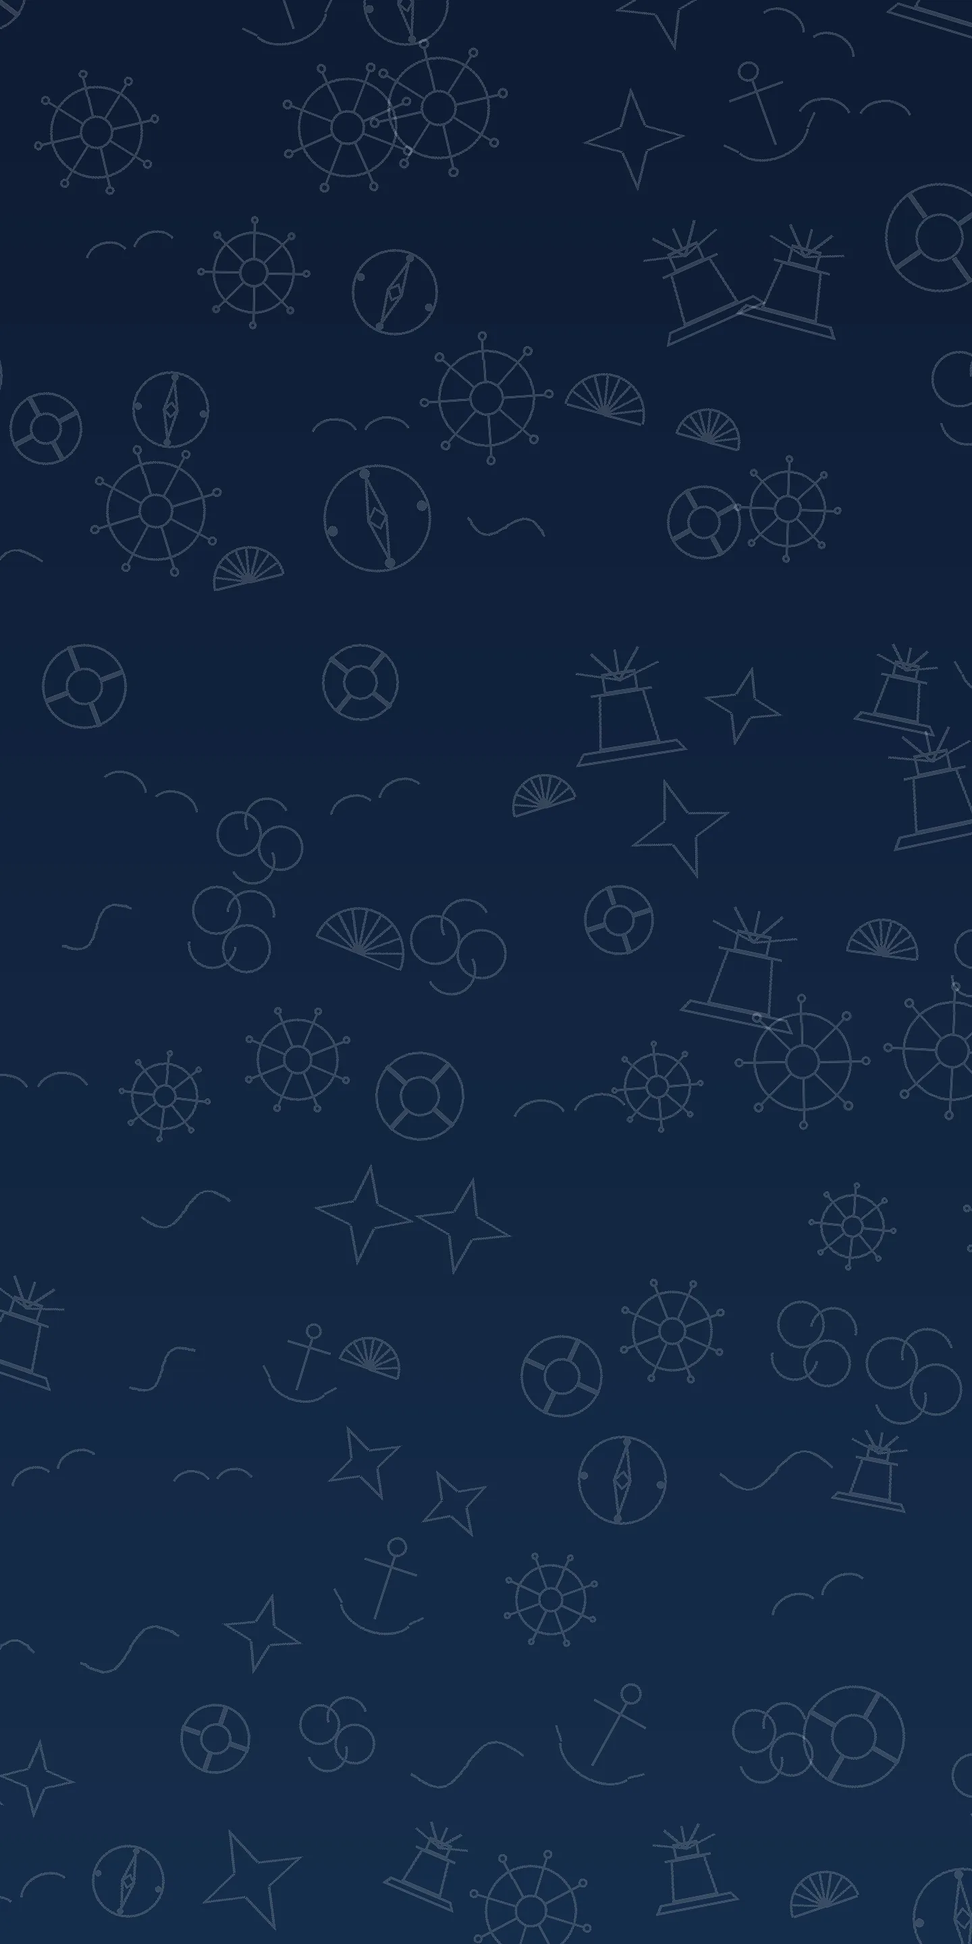
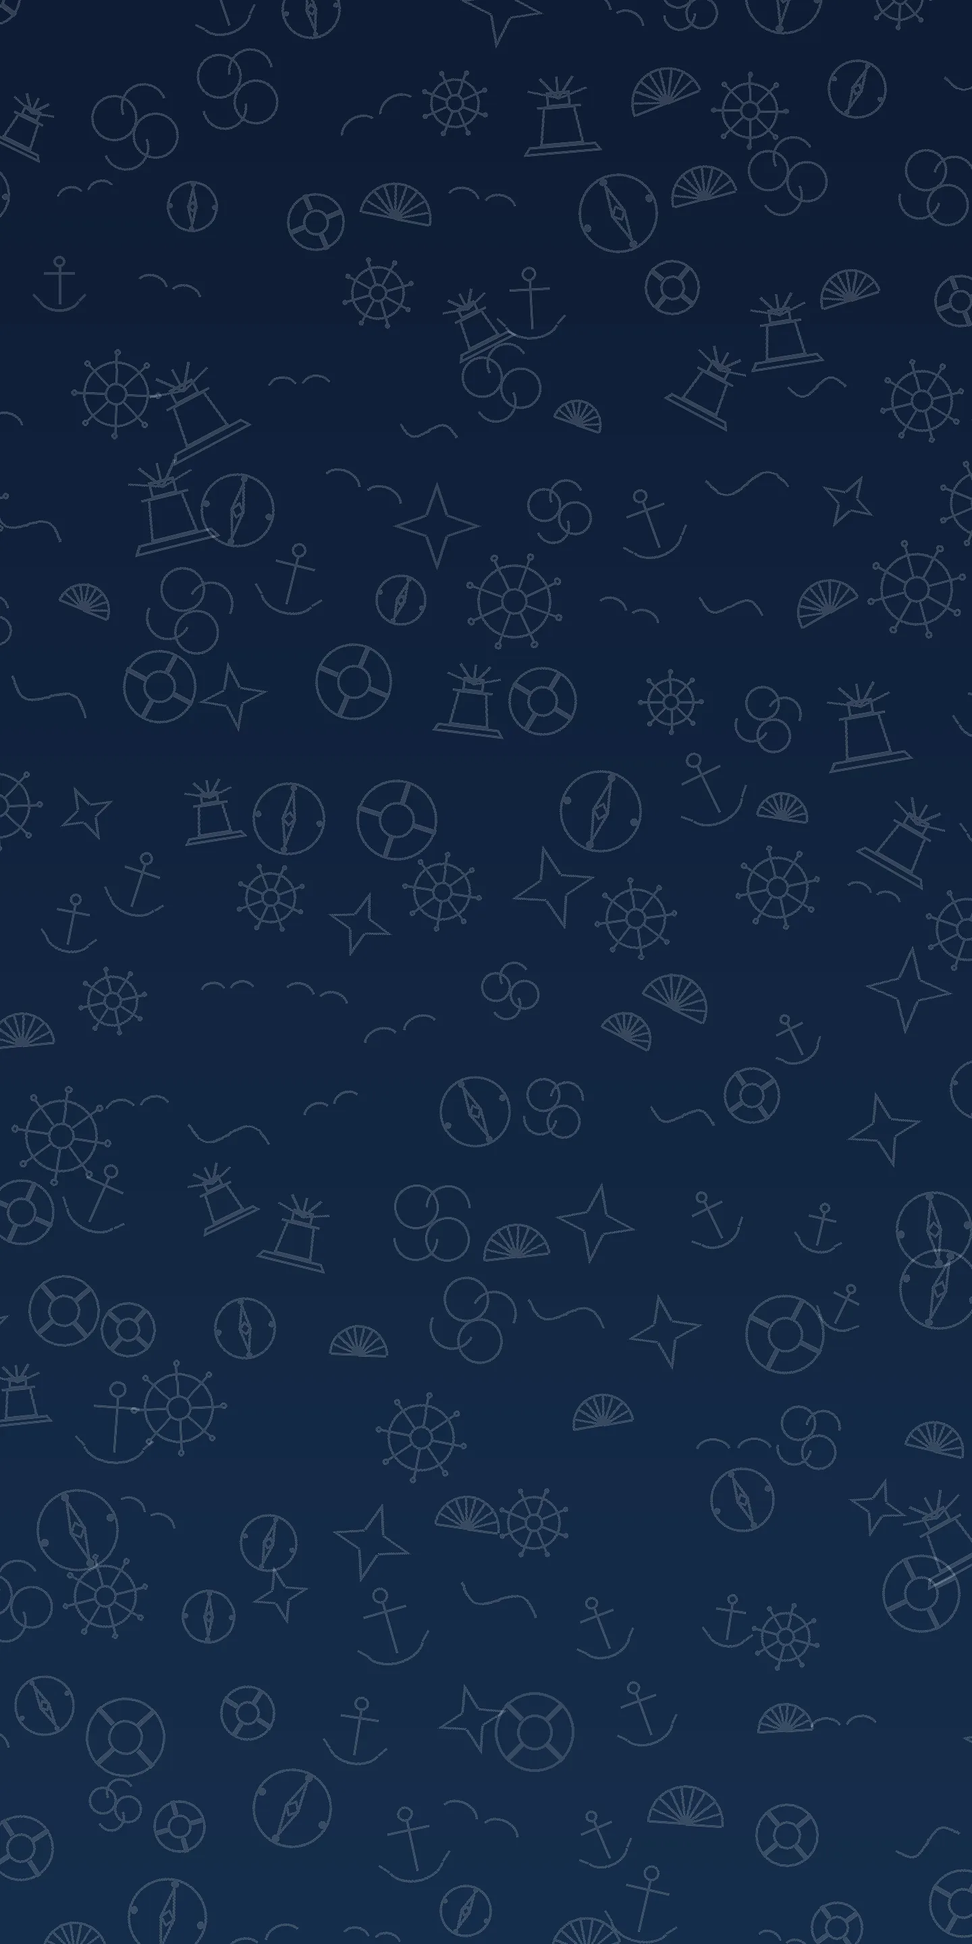
feat(chat): уплотнить doodle-обои и добавить fuji-natural (реалистичная Фудзияма)
Два изменения:

1. Плотность doodle-паттернов поднята: density 0.85-0.88 → 0.95-0.98,
   шаг сетки base 200-220 → 150-170, jitter уменьшен. Иконки
   доодл-обоев (marine, stickers, formula) теперь покрывают холст
   плотнее — больше иконок на экран без визуальных «дыр».

2. Новый концепт fuji-natural (× light/dark) — реалистичная
   Фудзияма без Хокусай-волны:
   - Силуэт с вогнутыми склонами и плоской вершиной (кальдерой) —
     повторяет анатомию настоящего вулканического конуса.
   - Снежная шапка — широкий полигон сверху, повторяющий профиль
     склона + 6 отдельных «языков снега», спускающихся по
     эрозийным бороздам.
   - Эрозийные борозды на тёмной части склона ниже снега.
   - Пейзаж: дальние холмы за Фудзи, тонкая полоса тумана на
     горизонте, озеро с отражением Фудзи и горизонтальной рябью,
     силуэты сосен по берегам.
   - Light: тёплый рассвет с солнцем; dark: лунная ночь со звёздами.

Реестры (TS+Dart) и 8 web-локалей синхронизированы под slug
`fuji-natural`.

diff --git a/src/lib/builtinWallpapers.ts b/src/lib/builtinWallpapers.ts
@@ -23,6 +23,7 @@ export type BuiltinWallpaperSlug =
   | 'mountains-mist'
   | 'pine-deer'
   | 'fuji-wave'
+  | 'fuji-natural'
   | 'sakura-branch';
 
 export interface BuiltinWallpaper {
@@ -135,6 +136,13 @@ export const BUILTIN_WALLPAPERS: readonly BuiltinWallpaper[] = [
     light: '/wallpapers/fuji-wave-light.webp',
     dark: '/wallpapers/fuji-wave-dark.webp',
     previewGradient: 'linear-gradient(180deg, #FAE8C8 0%, #DAE8F4 100%)',
+  },
+  {
+    slug: 'fuji-natural',
+    labelKey: 'fujiNatural',
+    light: '/wallpapers/fuji-natural-light.webp',
+    dark: '/wallpapers/fuji-natural-dark.webp',
+    previewGradient: 'linear-gradient(180deg, #FCD7C3 0%, #DCE8F0 100%)',
   },
   {
     slug: 'sakura-branch',

diff --git a/mobile/app/lib/features/chat/data/builtin_wallpapers.dart b/mobile/app/lib/features/chat/data/builtin_wallpapers.dart
@@ -169,6 +169,16 @@ const List<BuiltinWallpaper> kBuiltinWallpapers = <BuiltinWallpaper>[
     ),
   ),
   BuiltinWallpaper(
+    slug: 'fuji-natural',
+    lightAsset: 'assets/wallpapers/fuji-natural-light.webp',
+    darkAsset: 'assets/wallpapers/fuji-natural-dark.webp',
+    previewGradient: LinearGradient(
+      begin: Alignment.topCenter,
+      end: Alignment.bottomCenter,
+      colors: [Color(0xFFFCD7C3), Color(0xFFDCE8F0)],
+    ),
+  ),
+  BuiltinWallpaper(
     slug: 'sakura-branch',
     lightAsset: 'assets/wallpapers/sakura-branch-light.webp',
     darkAsset: 'assets/wallpapers/sakura-branch-dark.webp',

diff --git a/src/lib/i18n/messages/kk.ts b/src/lib/i18n/messages/kk.ts
@@ -2265,6 +2265,7 @@ export const messagesKk = {
       mountainsMist: 'Тұманды таулар',
       pineDeer: 'Орман бұғысы',
       fujiWave: 'Фудзи мен толқын',
+      fujiNatural: 'Таңертеңгі Фудзияма',
       sakuraBranch: 'Сакура бұтағы',
     },
     bubbleRadius: {

diff --git a/src/lib/i18n/messages/ru.ts b/src/lib/i18n/messages/ru.ts
@@ -2282,6 +2282,7 @@ export const messagesRu = {
       mountainsMist: 'Туманные горы',
       pineDeer: 'Олень в лесу',
       fujiWave: 'Фудзи и волна',
+      fujiNatural: 'Фудзияма на рассвете',
       sakuraBranch: 'Ветка сакуры',
     },
     bubbleRadius: {

diff --git a/src/lib/i18n/messages/pt-BR.ts b/src/lib/i18n/messages/pt-BR.ts
@@ -2265,6 +2265,7 @@ export const messagesPtBr = {
       mountainsMist: 'Montanhas enevoadas',
       pineDeer: 'Cervo da floresta',
       fujiWave: 'Fuji e a onda',
+      fujiNatural: 'Monte Fuji ao amanhecer',
       sakuraBranch: 'Galho de sakura',
     },
     bubbleRadius: {

diff --git a/src/lib/i18n/messages/es-MX.ts b/src/lib/i18n/messages/es-MX.ts
@@ -2265,6 +2265,7 @@ export const messagesEsMx = {
       mountainsMist: 'Montañas brumosas',
       pineDeer: 'Ciervo del bosque',
       fujiWave: 'Fuji y la ola',
+      fujiNatural: 'Monte Fuji al amanecer',
       sakuraBranch: 'Rama de sakura',
     },
     bubbleRadius: {

diff --git a/src/lib/i18n/messages/uz.ts b/src/lib/i18n/messages/uz.ts
@@ -2265,6 +2265,7 @@ export const messagesUz = {
       mountainsMist: 'Tumanli togʻlar',
       pineDeer: 'Oʻrmon bugʻusi',
       fujiWave: 'Fuji va toʻlqin',
+      fujiNatural: 'Tongda Fuji togʻi',
       sakuraBranch: 'Sakura shoxi',
     },
     bubbleRadius: {

diff --git a/src/lib/i18n/messages/id.ts b/src/lib/i18n/messages/id.ts
@@ -2265,6 +2265,7 @@ export const messagesId = {
       mountainsMist: 'Gunung Berkabut',
       pineDeer: 'Rusa Hutan',
       fujiWave: 'Fuji & Ombak',
+      fujiNatural: 'Gunung Fuji Saat Fajar',
       sakuraBranch: 'Cabang Sakura',
     },
     bubbleRadius: {

diff --git a/src/lib/i18n/messages/tr.ts b/src/lib/i18n/messages/tr.ts
@@ -2265,6 +2265,7 @@ export const messagesTr = {
       mountainsMist: 'Sisli Dağlar',
       pineDeer: 'Orman Geyiği',
       fujiWave: 'Fuji ve Dalga',
+      fujiNatural: 'Şafakta Fuji Dağı',
       sakuraBranch: 'Sakura Dalı',
     },
     bubbleRadius: {

diff --git a/src/lib/i18n/messages/en.ts b/src/lib/i18n/messages/en.ts
@@ -2280,6 +2280,7 @@ export const messagesEn = {
       mountainsMist: 'Misty Mountains',
       pineDeer: 'Forest Deer',
       fujiWave: 'Fuji & the Wave',
+      fujiNatural: 'Mt. Fuji at Dawn',
       sakuraBranch: 'Sakura Branch',
     },
     bubbleRadius: {

diff --git a/scripts/generate-chat-wallpapers.py b/scripts/generate-chat-wallpapers.py
@@ -969,8 +969,8 @@ def concept_doodle_marine(theme):
         ink = (210, 230, 250)
         alpha = 150
     pat = doodle_pattern((W, H), MARINE_ICONS, ink,
-                        alpha=alpha, density=0.88, base=200,
-                        jitter=50, seed=101, width=4)
+                        alpha=alpha, density=0.98, base=150,
+                        jitter=40, seed=101, width=4)
     bg.paste(pat, (0, 0), pat)
     return bg.convert("RGB")
 
@@ -987,8 +987,8 @@ def concept_doodle_stickers(theme):
         ink = (255, 180, 80)  # тёплый ярче coral для контраста
         alpha = 200
     pat = doodle_pattern((W, H), STICKER_ICONS, ink,
-                        alpha=alpha, density=0.85, base=220,
-                        jitter=55, seed=202, width=4)
+                        alpha=alpha, density=0.97, base=170,
+                        jitter=45, seed=202, width=4)
     bg.paste(pat, (0, 0), pat)
     return bg.convert("RGB")
 
@@ -1005,8 +1005,8 @@ def concept_doodle_formula(theme):
         ink = (220, 235, 255)
         alpha = 180
     pat = doodle_text_pattern((W, H), FORMULA_SNIPPETS, ink,
-                             alpha=alpha, density=0.72, base=220,
-                             font_size=56, jitter=60, seed=303)
+                             alpha=alpha, density=0.95, base=170,
+                             font_size=50, jitter=45, seed=303)
     bg.paste(pat, (0, 0), pat)
     # Координатная сетка чуть видимая
     grid = Image.new("RGBA", (W, H), (0, 0, 0, 0))
@@ -1464,6 +1464,205 @@ def concept_fuji_wave(theme):
     return bg.convert("RGB")
 
 
+def draw_fuji_natural(size, body=(95, 110, 145), shadow=(60, 75, 110),
+                       snow=(248, 248, 252), snow_dim=(210, 220, 235),
+                       erosion=(50, 60, 90)):
+    """Натуральная Фудзияма: вогнутые склоны + плоская вершина (кратер) +
+    непрерывная снежная шапка с эрозийными «языками» по склонам.
+
+    Силуэт построен так, чтобы повторить характерный профиль реальной
+    Фудзи-сан: широкое основание, плавно крутеющие к вершине склоны
+    (вогнутая кривая), и плоский верх — кальдера. Снег покрывает
+    верхнюю треть как единая шапка, без видимого «шва» по центру.
+    """
+    w, h = size
+    layer = Image.new("RGBA", size, (0, 0, 0, 0))
+    d = ImageDraw.Draw(layer)
+    # Силуэт Фудзи — вогнутый конус с широким основанием и плоской вершиной.
+    # Точки расставлены так, чтобы средняя часть склонов «выгибалась» вниз
+    # (как у настоящего вулканического конуса), а не была прямой линией.
+    body_pts = [
+        (int(w * -0.02), h),                     # левая база (за край холста)
+        (int(w * 0.04), int(h * 0.95)),          # подножие лево (пологое)
+        (int(w * 0.12), int(h * 0.86)),          # подъём начинается
+        (int(w * 0.22), int(h * 0.72)),          # склон лево-низ
+        (int(w * 0.30), int(h * 0.58)),          # склон лево-середина
+        (int(w * 0.36), int(h * 0.46)),          # склон лево-верх (выпрямление)
+        (int(w * 0.41), int(h * 0.34)),          # подход к вершине лево
+        (int(w * 0.44), int(h * 0.24)),          # последний крутой участок
+        (int(w * 0.46), int(h * 0.18)),          # вершина лево (плоская)
+        (int(w * 0.54), int(h * 0.18)),          # вершина право (плоская)
+        (int(w * 0.56), int(h * 0.24)),          # последний крутой участок
+        (int(w * 0.59), int(h * 0.34)),          # подход к вершине право
+        (int(w * 0.64), int(h * 0.46)),          # склон право-верх
+        (int(w * 0.70), int(h * 0.58)),          # склон право-середина
+        (int(w * 0.78), int(h * 0.72)),          # склон право-низ
+        (int(w * 0.88), int(h * 0.86)),          # подножие право
+        (int(w * 0.96), int(h * 0.95)),          # пологое
+        (int(w * 1.02), h),                      # правая база (за край холста)
+    ]
+    d.polygon(body_pts, fill=body + (255,))
+    # Снежная шапка — широкая «чаша», следующая за расширяющимся
+    # профилем горы; покрывает верхнюю треть. Многоточечный полигон
+    # повторяет body_pts на верхнем участке, чтобы снег ровно лежал
+    # на склонах без «башни».
+    snow_cap = [
+        (int(w * 0.46), int(h * 0.18)),    # верх лево
+        (int(w * 0.54), int(h * 0.18)),    # верх право
+        (int(w * 0.56), int(h * 0.24)),
+        (int(w * 0.59), int(h * 0.34)),
+        (int(w * 0.625), int(h * 0.42)),   # низ право
+        (int(w * 0.375), int(h * 0.42)),   # низ лево
+        (int(w * 0.41), int(h * 0.34)),
+        (int(w * 0.44), int(h * 0.24)),
+    ]
+    d.polygon(snow_cap, fill=snow + (255,))
+    # Языки снега — спускаются ниже основной шапки по бороздам эрозии
+    snow_tongues = [
+        # (top_x_left, top_x_right, top_y, tip_x, tip_y)
+        (0.555, 0.620, 0.41, 0.585, 0.55),   # правый главный
+        (0.490, 0.555, 0.41, 0.520, 0.50),   # правый внутренний
+        (0.605, 0.640, 0.41, 0.640, 0.50),   # правый внешний
+        (0.380, 0.445, 0.41, 0.415, 0.55),   # левый главный
+        (0.445, 0.510, 0.41, 0.480, 0.50),   # левый внутренний
+        (0.360, 0.395, 0.41, 0.360, 0.50),   # левый внешний
+    ]
+    for x_l, x_r, y_top, x_tip, y_tip in snow_tongues:
+        d.polygon([
+            (int(w * x_l), int(h * y_top)),
+            (int(w * x_r), int(h * y_top)),
+            (int(w * x_tip), int(h * y_tip)),
+        ], fill=snow + (255,))
+    # Лёгкая тень на правой стороне снега для объёма (мягкая, без линии)
+    snow_shadow = Image.new("RGBA", size, (0, 0, 0, 0))
+    ssd = ImageDraw.Draw(snow_shadow)
+    ssd.polygon([
+        (int(w * 0.50), int(h * 0.18)),
+        (int(w * 0.54), int(h * 0.18)),
+        (int(w * 0.59), int(h * 0.32)),
+        (int(w * 0.50), int(h * 0.32)),
+    ], fill=snow_dim + (60,))
+    snow_shadow = snow_shadow.filter(ImageFilter.GaussianBlur(radius=20))
+    layer = Image.alpha_composite(layer, snow_shadow)
+    d = ImageDraw.Draw(layer)
+    # Эрозийные борозды на тёмной части склона (ниже снега)
+    erosion_w = max(2, int(w * 0.003))
+    for top_x, top_y, bot_x, bot_y in [
+        # Правые
+        (0.59, 0.42, 0.72, 0.65),
+        (0.61, 0.45, 0.74, 0.65),
+        (0.63, 0.48, 0.76, 0.68),
+        (0.65, 0.52, 0.79, 0.72),
+        (0.68, 0.58, 0.83, 0.78),
+        # Левые (зеркально)
+        (0.41, 0.42, 0.28, 0.65),
+        (0.39, 0.45, 0.26, 0.65),
+        (0.37, 0.48, 0.24, 0.68),
+        (0.35, 0.52, 0.21, 0.72),
+        (0.32, 0.58, 0.17, 0.78),
+    ]:
+        d.line([(int(w * top_x), int(h * top_y)),
+                (int(w * bot_x), int(h * bot_y))],
+               fill=erosion + (110,), width=erosion_w)
+    return layer
+
+
+def concept_fuji_natural(theme):
+    """Натуральная Фудзияма: реалистичная гора + озеро/туман + мини-сосны.
+
+    Без стилизованной волны. Рассветное небо, мягкое солнце, отражение
+    Фудзи в озере на нижней четверти, тонкий туман на горизонте, мелкие
+    силуэты сосен по бокам.
+    """
+    if theme == "light":
+        bg = vertical_gradient((W, H), (252, 215, 195), (220, 232, 244))
+        sun_color = (255, 195, 130)
+        fuji_body = (105, 120, 155)
+        fuji_shadow = (70, 85, 120)
+        fuji_snow = (250, 250, 254)
+        fuji_snow_dim = (215, 222, 238)
+        fuji_erosion = (55, 65, 95)
+        lake = (155, 180, 205)
+        lake_reflect = (130, 155, 190)
+        pine_color = (45, 65, 60)
+    else:
+        bg = vertical_gradient((W, H), (8, 14, 30), (24, 30, 56))
+        sun_color = (240, 215, 250)  # лунный
+        fuji_body = (52, 65, 100)
+        fuji_shadow = (28, 38, 65)
+        fuji_snow = (200, 215, 240)
+        fuji_snow_dim = (140, 155, 185)
+        fuji_erosion = (12, 20, 42)
+        lake = (12, 22, 50)
+        lake_reflect = (28, 40, 70)
+        pine_color = (8, 16, 30)
+    # Солнце/луна слева от пика
+    sun = radial_glow((W, H), (int(W * 0.32), int(H * 0.22)), int(H * 0.13),
+                      sun_color, alpha=200)
+    bg.paste(sun, (0, 0), sun)
+    if theme == "dark":
+        bg.paste(starfield((W, H), density=220, seed=66), (0, 0),
+                 starfield((W, H), density=220, seed=66))
+    # Дальние холмы за Фудзи
+    hills_back = mountain_layer(
+        (W, H), 0.62,
+        [(0.0, 0.04), (0.15, 0.05), (0.30, 0.03), (0.45, 0.06),
+         (0.55, 0.05), (0.70, 0.04), (0.85, 0.06), (1.0, 0.04)],
+        (170, 185, 210) if theme == "light" else (45, 55, 90),
+        alpha=200, seed=2,
+    )
+    bg.paste(hills_back, (0, 0), hills_back)
+    # Горизонт — тонкая полоса тумана прямо под Фудзи
+    mist = Image.new("RGBA", (W, H), (0, 0, 0, 0))
+    md = ImageDraw.Draw(mist)
+    mc = (255, 255, 255) if theme == "light" else (90, 110, 150)
+    md.rectangle([0, int(H * 0.66), W, int(H * 0.71)], fill=mc + (100,))
+    mist = mist.filter(ImageFilter.GaussianBlur(radius=35))
+    bg.paste(mist, (0, 0), mist)
+    # Сама Фудзи — компактная по центру, занимает 70% ширины и 56% высоты
+    fuji_size = (int(W * 0.85), int(H * 0.58))
+    fuji_layer = draw_fuji_natural(fuji_size, body=fuji_body, shadow=fuji_shadow,
+                                    snow=fuji_snow, snow_dim=fuji_snow_dim,
+                                    erosion=fuji_erosion)
+    bg.paste(fuji_layer,
+             (int(W * 0.50 - fuji_size[0] / 2), int(H * 0.16)),
+             fuji_layer)
+    # Озеро (нижняя четверть)
+    lake_layer = Image.new("RGBA", (W, H), (0, 0, 0, 0))
+    ld = ImageDraw.Draw(lake_layer)
+    ld.rectangle([0, int(H * 0.78), W, H], fill=lake + (255,))
+    bg.paste(lake_layer, (0, 0), lake_layer)
+    # Отражение Фудзи в озере — перевёрнутая полу-прозрачная копия
+    fuji_reflect = fuji_layer.transpose(Image.FLIP_TOP_BOTTOM)
+    # Уменьшим высоту отражения
+    rh = int(fuji_size[1] * 0.4)
+    fuji_reflect = fuji_reflect.resize((fuji_size[0], rh),
+                                        resample=Image.BICUBIC)
+    # Применим прозрачность
+    rmask = fuji_reflect.split()[-1].point(lambda v: int(v * 0.45))
+    fuji_reflect.putalpha(rmask)
+    bg.paste(fuji_reflect,
+             (int(W * 0.50 - fuji_size[0] / 2), int(H * 0.78)),
+             fuji_reflect)
+    # Мягкая горизонтальная "рябь" поверх отражения
+    for y_frac in (0.82, 0.86, 0.90, 0.94, 0.98):
+        ripple = Image.new("RGBA", (W, H), (0, 0, 0, 0))
+        rd = ImageDraw.Draw(ripple)
+        rd.line([(0, int(H * y_frac)), (W, int(H * y_frac))],
+                fill=lake_reflect + (90,), width=2)
+        bg.paste(ripple, (0, 0), ripple)
+    # Силуэты сосен по бокам у воды
+    pine_layer = Image.new("RGBA", (W, H), (0, 0, 0, 0))
+    pld = ImageDraw.Draw(pine_layer)
+    for x_frac in (0.04, 0.10, 0.92, 0.98):
+        x = int(W * x_frac)
+        y = int(H * 0.78)
+        sz = int(W * 0.06)
+        draw_pine(pld, x, y, sz * 2, pine_color, alpha=255, layers=4)
+    bg.paste(pine_layer, (0, 0), pine_layer)
+    return bg.convert("RGB")
+
+
 def concept_sakura_branch(theme):
     """Ветка сакуры с цветами и падающими лепестками."""
     if theme == "light":
@@ -1503,6 +1702,7 @@ CONCEPTS = {
     "mountains-mist": concept_mountains_mist,
     "pine-deer": concept_pine_deer,
     "fuji-wave": concept_fuji_wave,
+    "fuji-natural": concept_fuji_natural,
     "sakura-branch": concept_sakura_branch,
 }
 
